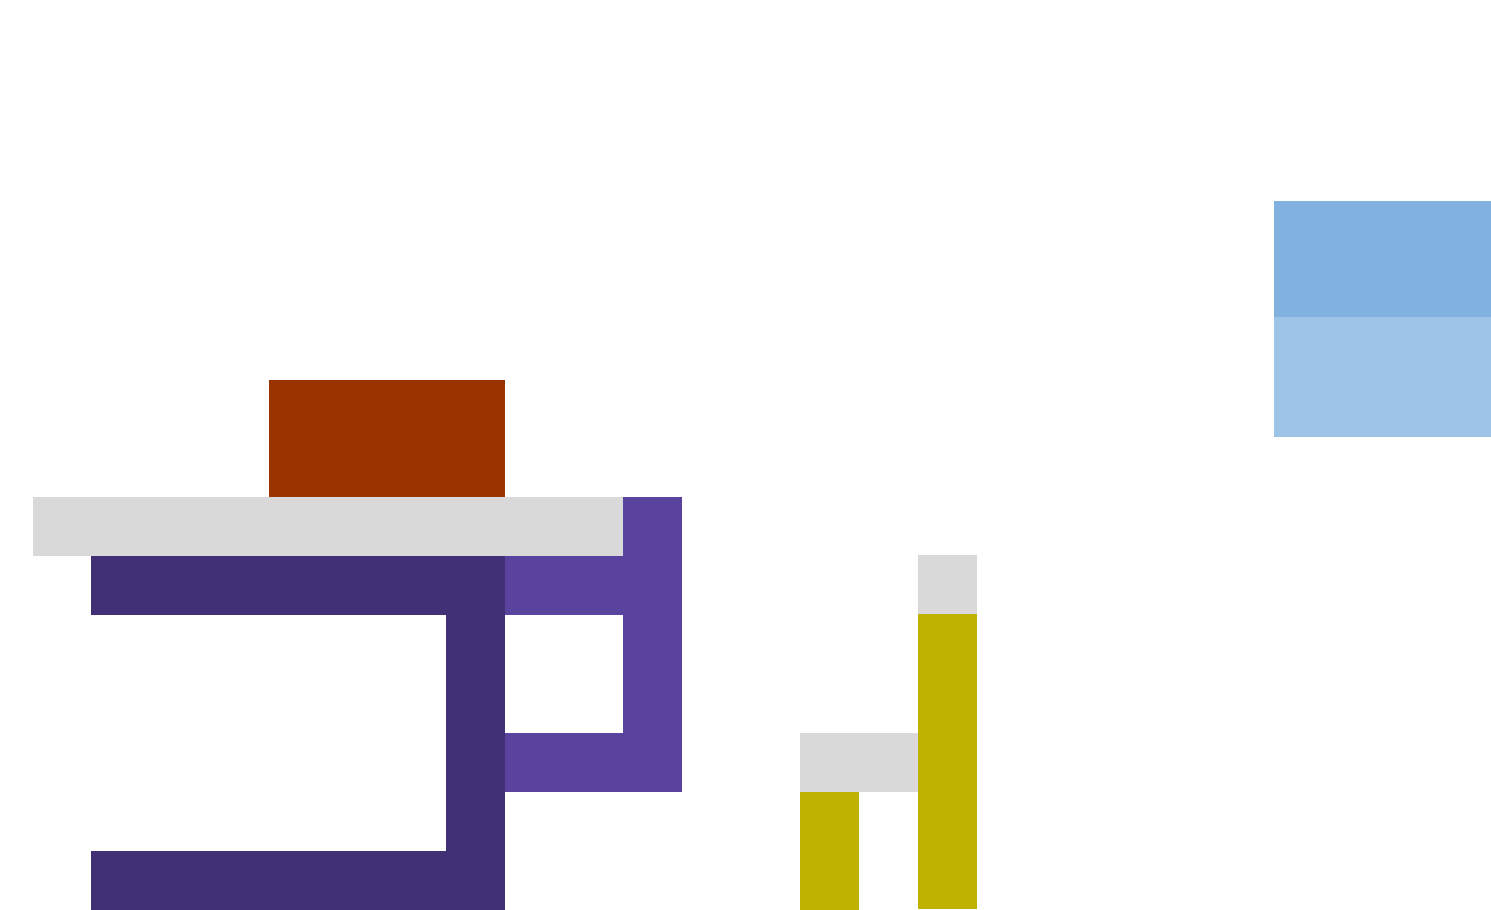
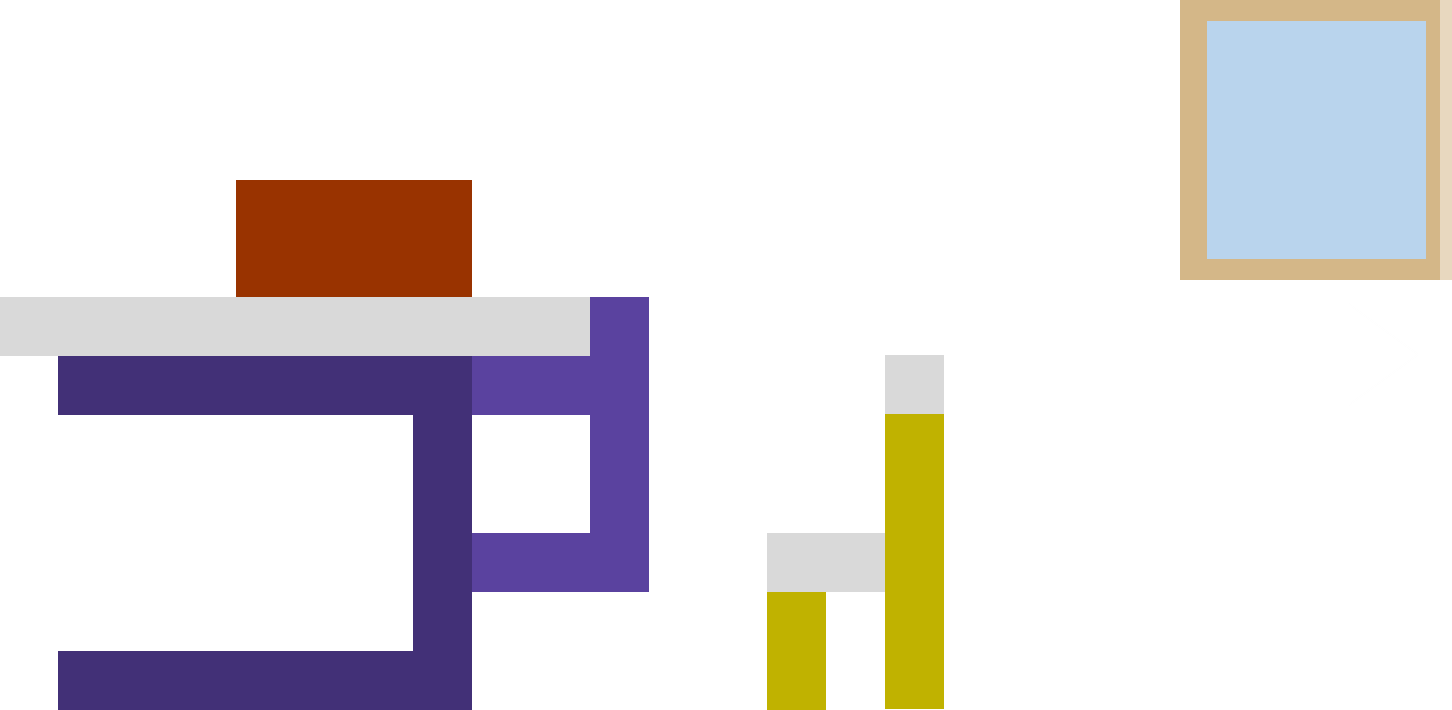
창문 변경

Changed region(s): [[0.0, 0.2479, 0.4649, 1.0], [0.8058, 0.0, 1.0, 0.4958], [0.5269, 0.4958, 0.6818, 1.0]]

diff --git a/Readme.md b/Readme.md
@@ -83,10 +83,10 @@
  - resol2_gumgo_full: 이 장면부터 레벨이 시작함
  - resol2_gumgo_ipad: 손전등 줍고(이때 인벤에 추가해야 함)
  - resol2_gumgo_empty: 아이패드까지 다 주워서 빈 금고일 때
- - resol2_main: 정면샷		/ resol2_side: 첫 화면의 측면(아직 못함)
+ - resol2_main: 정면샷		/ resol2_side: 측면
  - resol2_sofa_closed: 소파 근접샷(혹시 누를때를 대비)
 [resol3]
- - resol3_main: 정면샷		/ resol3_side: 첫 화면의 측면(아직 못함)
+ - resol3_main: 정면샷		/ resol3_side: 측면
  - resol3_sofa_closed: 소파 근접샷(혹시 누를때를 대비)
 [resol2~3]
  - flash_off: 인벤에서 후레시 클릭 시
@@ -97,6 +97,6 @@
  - ipad_open_fisrt: 앱 클릭하면 이 화면 나오고 잠깐 뒤 다음 화면(ipad_open_last)으로 넘어감
 [resol4: 탈출 직전]
  - ipad_app_last: 이 장면부터 레벨이 시작함
- - resol4_main: 여기서 문으로 탈출!	// 측면 안만듦
+ - resol4_main: 여기서 문으로 탈출!	// 측면: resol4_side
 
 #아이패드 전체 추가(끝!) --> 14:20
